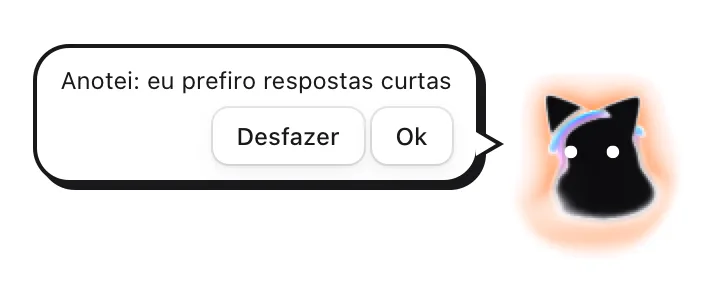
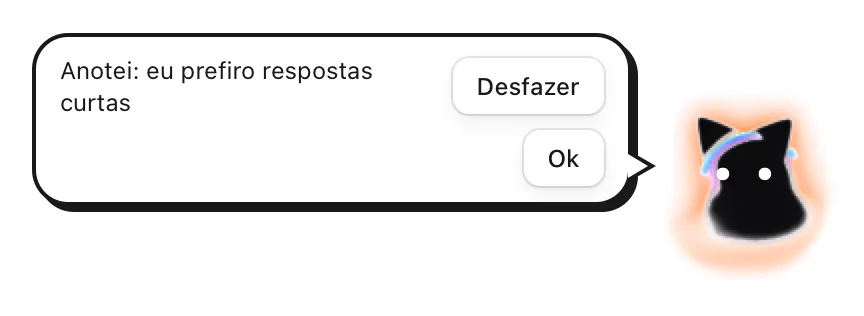
T11665 rodada 2: a leitura que falha não apaga a memória, e cada anotação do pedido tem o seu [Desfazer]

diff --git a/app/ui/hub/MemoryBubble.tsx b/app/ui/hub/MemoryBubble.tsx
@@ -1,6 +1,6 @@
-// "Anotei: …" (spec #11469, T11665): quando o agente anota ou esquece um fato na memória, o balão do gato mostra o
-// fato com o [Desfazer]. Aparece depois que o balão da resposta sai e fica uns segundos; o [Desfazer] é o
-// `agent.memoryUndo`. Nunca tira o foco.
+// "Anotei: …" (spec #11469, T11665): quando o agente anota ou esquece fatos na memória, o balão do gato mostra cada
+// mudança do pedido, cada uma com o seu [Desfazer] (`agent.memoryUndo`). Aparece depois que o balão da resposta sai e
+// fica uns segundos. Nunca tira o foco.
 
 import { useEffect, useRef, useState } from "react";
 
@@ -8,33 +8,40 @@ import type { AgentMemoryView } from "../../src/shared/ui-contract.ts";
 import { api, has } from "../src/api.ts";
 import { Button } from "../src/kit/index.tsx";
 
-/** Quanto o balão fica na tela depois de aparecer. */
+/** Quanto o balão fica na tela depois da última mudança. */
 export const MEMORY_BUBBLE_MS = 12_000;
 
-type Last = NonNullable<AgentMemoryView["last"]>;
+type Change = AgentMemoryView["changes"][number];
 
 /** A frase do balão para uma mudança na memória. */
-export function memoryBubbleLine(last: Last): string {
-  if (last.undone) return last.action === "remember" ? `Desfeito: não anotei "${last.fact}".` : `Desfeito: "${last.fact}" voltou para a memória.`;
-  return last.action === "remember" ? `Anotei: ${last.fact}` : `Esqueci: ${last.fact}`;
+export function memoryBubbleLine(c: Change): string {
+  if (c.undone) return c.action === "remember" ? `Desfeito: não anotei "${c.fact}".` : `Desfeito: "${c.fact}" voltou para a memória.`;
+  return c.action === "remember" ? `Anotei: ${c.fact}` : `Esqueci: ${c.fact}`;
 }
 
 export function MemoryBubble({ hidden, onShown }: { hidden: boolean; onShown?: (shown: boolean) => void }) {
-  const [last, setLast] = useState<Last | null>(null);
+  const [changes, setChanges] = useState<Change[]>([]);
   const [failure, setFailure] = useState<string | null>(null);
   const timer = useRef<ReturnType<typeof setTimeout> | undefined>(undefined);
 
   useEffect(() => {
     if (!has("agent.memory")) return;
-    let seen: string | null = null;
+    const seen = new Set<string>();
+    let open = false;
     const off = api.agent.onMemory((v) => {
-      // Só uma mudança nova (ou o desfeito da mostrada) abre o balão; a tela de Ajustes mudando a lista não.
-      if (!v.last || (v.last.id === seen && !v.last.undone)) return;
-      seen = v.last.id;
+      // Uma mudança nova abre o balão (e o reabre); um [Desfazer] atualiza o que está aberto. A tela de Ajustes mudando
+      // a lista, sem mudança do agente, não abre nada.
+      const fresh = v.changes.some((c) => !seen.has(c.id));
+      for (const c of v.changes) seen.add(c.id);
+      if (!fresh && !open) return;
+      open = true;
       setFailure(null);
-      setLast(v.last);
+      setChanges(v.changes);
       clearTimeout(timer.current);
-      timer.current = setTimeout(() => setLast(null), MEMORY_BUBBLE_MS);
+      timer.current = setTimeout(() => {
+        open = false;
+        setChanges([]);
+      }, MEMORY_BUBBLE_MS);
     });
     return () => {
       off();
@@ -42,27 +49,25 @@ export function MemoryBubble({ hidden, onShown }: { hidden: boolean; onShown?: (
     };
   }, []);
 
-  const shown = !!last && !hidden;
-  useEffect(() => onShown?.(!!last), [!!last]);
-  if (!shown) return null;
+  useEffect(() => onShown?.(changes.length > 0), [changes.length > 0]);
+  if (!changes.length || hidden) return null;
   const keepFocus = (e: React.MouseEvent) => {
     if ((e.target as HTMLElement).closest("button")) e.preventDefault();
   };
+  const undo = (id: string) => void api.agent.memoryUndo(id).catch((e: unknown) => setFailure(e instanceof Error ? e.message : String(e)));
   return (
     <div className="kn-bubble-shell kn-bubble kn-memory-bubble" onMouseDown={keepFocus} role="status" aria-label="A memória do agente">
-      <p className="kn-memory-line">{memoryBubbleLine(last!)}</p>
+      <ul className="kn-memory-list">
+        {changes.map((c) => (
+          <li key={c.id} className="kn-memory-item">
+            <span className="kn-memory-line">{memoryBubbleLine(c)}</span>
+            {!c.undone ? <Button onClick={() => undo(c.id)}>Desfazer</Button> : null}
+          </li>
+        ))}
+      </ul>
       {failure ? <p className="kn-memory-note">{failure}</p> : null}
       <div className="kn-memory-actions">
-        {!last!.undone ? (
-          <Button
-            onClick={() =>
-              void api.agent.memoryUndo(last!.id).catch((e: unknown) => setFailure(e instanceof Error ? e.message : String(e)))
-            }
-          >
-            Desfazer
-          </Button>
-        ) : null}
-        <Button onClick={() => setLast(null)}>Ok</Button>
+        <Button onClick={() => setChanges([])}>Ok</Button>
       </div>
     </div>
   );

diff --git a/app/src/agent/service.test.ts b/app/src/agent/service.test.ts
@@ -1441,7 +1441,7 @@ describe("a memória do agente (spec #11469)", () => {
     const turn = await askAndWait(m, "lembra que eu prefiro respostas curtas");
     expect(turn.at(-1)).toMatchObject({ type: "done", text: "Anotei: eu prefiro respostas curtas." });
     expect(readFileSync(path.join(root, ".kiwi/agente/sobre-mim.md"), "utf8")).toContain("- eu prefiro respostas curtas\n");
-    expect(seen.at(-1)).toMatchObject({ facts: ["eu prefiro respostas curtas"], max: 60, last: { action: "remember", fact: "eu prefiro respostas curtas" } });
+    expect(seen.at(-1)).toMatchObject({ facts: ["eu prefiro respostas curtas"], max: 60, changes: [{ action: "remember", fact: "eu prefiro respostas curtas" }] });
     const [r] = await m.svc.activityLog();
     expect(r!.reads).toContainEqual(expect.objectContaining({ tool: "memory_remember", target: "eu prefiro respostas curtas" }));
     // O pedido seguinte leva a memória no começo fixo, e dois pedidos seguidos levam os mesmos bytes.
@@ -1453,8 +1453,8 @@ describe("a memória do agente (spec #11469)", () => {
     expect(head(prompts.at(-1)!)).toBe(head(prompts.at(-2)!));
     expect(prompts.at(-2)).toContain("- eu prefiro respostas curtas\n]");
     // O [Desfazer] do balão tira o fato, e o balão sabe que foi desfeito.
-    const undone = await m.svc.memoryUndo(seen.at(-1)!.last!.id);
-    expect(undone).toMatchObject({ facts: [], last: { undone: true } });
+    const undone = await m.svc.memoryUndo(seen.at(-1)!.changes[0]!.id);
+    expect(undone).toMatchObject({ facts: [], changes: [{ undone: true }] });
     expect(await m.svc.memoryView()).toMatchObject({ facts: [] });
     await expect(m.svc.memoryUndo("nao-existe")).rejects.toMatchObject({ code: "E_NOT_FOUND" });
     // "esquece que…" com o fato de volta, e o [Desfazer] traz o fato no mesmo lugar.
@@ -1462,8 +1462,19 @@ describe("a memória do agente (spec #11469)", () => {
     await askAndWait(m, "lembra que uso o Mac");
     await askAndWait(m, "esquece que trabalho com PACS");
     expect((await m.svc.memoryView()).facts).toEqual(["uso o Mac"]);
-    await m.svc.memoryUndo((await m.svc.memoryView()).last!.id);
+    await m.svc.memoryUndo((await m.svc.memoryView()).changes.at(-1)!.id);
     expect((await m.svc.memoryView()).facts).toEqual(["trabalho com PACS", "uso o Mac"]);
+    // Duas anotações no mesmo pedido: as duas vão para o balão, cada uma com o seu [Desfazer] (revisão do T11665).
+    await askAndWait(m, '/tool memory_remember {"fato":"mora em BH"}\n/tool memory_remember {"fato":"tem um gato"}');
+    const both = await m.svc.memoryView();
+    expect(both.changes.map((c) => c.fact)).toEqual(["mora em BH", "tem um gato"]);
+    await m.svc.memoryUndo(both.changes[0]!.id);
+    expect((await m.svc.memoryView()).facts).toEqual(["trabalho com PACS", "uso o Mac", "tem um gato"]);
+    expect((await m.svc.memoryView()).changes).toMatchObject([{ fact: "mora em BH", undone: true }, { fact: "tem um gato" }]);
+    // Um fato que já estava lá não muda nada: a Atividade não diz "Anotou".
+    await askAndWait(m, "lembra que tem um gato");
+    const [r2] = await m.svc.activityLog();
+    expect(r2!.reads.find((x) => x.tool === "memory_remember")?.target).toBeUndefined();
   });
 
   test("as instruções e o glossário (T11667): no começo fixo, na ordem, os mesmos bytes em dois pedidos seguidos; no modo econômico, só os termos do pedido", async () => {

diff --git a/app/src/agent/memory.test.ts b/app/src/agent/memory.test.ts
@@ -2,7 +2,7 @@
 // ferramentas com o guardrail (o segredo é recusado; a dúvida passa pela pergunta antes de ser guardada).
 
 import { afterAll, describe, expect, test } from "bun:test";
-import { readFileSync, rmSync, writeFileSync, mkdirSync } from "node:fs";
+import { chmodSync, readFileSync, rmSync, writeFileSync, mkdirSync } from "node:fs";
 import path from "node:path";
 
 import { DoubtAnswers } from "../guardrail/answers.ts";
@@ -41,6 +41,25 @@ describe("o arquivo da memória", () => {
     writeFileSync(path.join(root, MEMORY_FILE), `${file}* mora em Belo Horizonte\nlinha solta\n- Trabalha com PACS\n`);
     expect(readMemory(root)).toEqual(["Prefere respostas curtas", "trabalha com PACS", "mora em Belo Horizonte"]);
     expect(parseMemory(formatMemory(readMemory(root)))).toEqual(readMemory(root));
+  });
+
+  test("um arquivo que não dá para ler não vira memória vazia: o erro sobe e nada é gravado por cima (revisão do T11665)", () => {
+    const root = tmp();
+    writeMemory(root, ["fato 1", "fato 2", "fato 3"]);
+    const file = path.join(root, MEMORY_FILE);
+    const before = readFileSync(file, "utf8");
+    chmodSync(file, 0o000);
+    try {
+      expect(() => readMemory(root)).toThrow(/não conseguiu ler a memória/);
+      expect(() => writeMemory(root, rememberFact(readMemory(root), "fato novo").facts)).toThrow();
+    } finally {
+      chmodSync(file, 0o600);
+    }
+    expect(readFileSync(file, "utf8")).toBe(before);
+    // Uma pasta no lugar do arquivo também é erro, não memória vazia.
+    const other = tmp();
+    mkdirSync(path.join(other, MEMORY_FILE), { recursive: true });
+    expect(() => readMemory(other)).toThrow(/não conseguiu ler a memória/);
   });
 
   test("anotar e esquecer: o repetido não entra, o cheio recusa, e esquecer acha sem maiúscula nem acento", () => {

diff --git a/app/src/agent/memory.ts b/app/src/agent/memory.ts
@@ -7,7 +7,7 @@
 // - **No máximo 60 fatos** (`MEMORY_MAX`): passando disso, o agente tem de esquecer um antes de anotar outro.
 // - **Os mesmos bytes para a mesma memória,** no arquivo e no começo fixo do pedido (o cache do agente, #11084).
 
-import { existsSync, mkdirSync, readFileSync, renameSync, writeFileSync } from "node:fs";
+import { mkdirSync, readFileSync, renameSync, writeFileSync } from "node:fs";
 import path from "node:path";
 
 export const MEMORY_FILE = path.join(".kiwi", "agente", "sobre-mim.md");
@@ -53,13 +53,18 @@ export function formatMemory(facts: readonly string[]): string {
   return [...HEADER, ...facts.map((f) => `- ${cleanFact(f)}`), ""].join("\n");
 }
 
+/**
+ * Os fatos do cofre. Sem o arquivo, nenhum. **Qualquer outro erro sobe** (`E_MEMORY_UNREADABLE`: sem permissão, uma
+ * pasta no lugar, um arquivo do iCloud que não baixou): quem ia gravar não grava por cima de fatos que não leu
+ * (revisão do T11665).
+ */
 export function readMemory(vaultRoot: string): string[] {
   const file = path.join(vaultRoot, MEMORY_FILE);
-  if (!existsSync(file)) return [];
   try {
     return parseMemory(readFileSync(file, "utf8"));
-  } catch {
-    return [];
+  } catch (e) {
+    if ((e as { code?: string })?.code === "ENOENT") return [];
+    throw new MemoryError("E_MEMORY_UNREADABLE", `o Kiwi não conseguiu ler a memória (${MEMORY_FILE}): nada foi mudado nela`);
   }
 }
 
@@ -76,7 +81,7 @@ export function writeMemory(vaultRoot: string, facts: readonly string[]): string
 
 export class MemoryError extends Error {
   constructor(
-    readonly code: "E_MEMORY_FULL" | "E_NOT_FOUND" | "E_BAD_ARGS",
+    readonly code: "E_MEMORY_FULL" | "E_NOT_FOUND" | "E_BAD_ARGS" | "E_MEMORY_UNREADABLE",
     message: string,
   ) {
     super(message);

diff --git a/app/src/agent/service.ts b/app/src/agent/service.ts
@@ -62,6 +62,8 @@ import { factKey, forgetFact, glossaryText, INSTRUCTIONS_MAX, instructionsText, 
 const MEMORY_OPS_KEEP = 50;
 interface MemoryOp {
   id: string;
+  /** O pedido do agente em que a mudança aconteceu: o balão mostra todas as do mesmo pedido. */
+  request: string;
   action: "remember" | "forget";
   fact: string;
   /** Onde o fato estava (para o esquecido voltar no mesmo lugar). */
@@ -322,7 +324,7 @@ export class AgentService {
   }
 
   private memoryOp(action: MemoryOp["action"], fact: string, index: number): MemoryOp {
-    const op: MemoryOp = { id: crypto.randomUUID(), action, fact, index, at: (this.d.now ?? Date.now)() };
+    const op: MemoryOp = { id: crypto.randomUUID(), request: this.activityId(), action, fact, index, at: (this.d.now ?? Date.now)() };
     this.memoryOps = [...this.memoryOps, op].slice(-MEMORY_OPS_KEEP);
     return op;
   }
@@ -347,12 +349,12 @@ export class AgentService {
   };
 
   private viewOf(facts: string[]): AgentMemoryView {
-    const last = this.memoryOps.at(-1);
-    return {
-      facts,
-      max: MEMORY_MAX,
-      last: last ? { id: last.id, action: last.action, fact: last.fact, at: new Date(last.at).toISOString(), ...(last.undone ? { undone: true } : {}) } : null,
-    };
+    // As mudanças do último pedido que mexeu na memória, na ordem: cada uma com o seu [Desfazer] no balão.
+    const request = this.memoryOps.at(-1)?.request;
+    const changes = this.memoryOps
+      .filter((o) => o.request === request)
+      .map((o) => ({ id: o.id, action: o.action, fact: o.fact, at: new Date(o.at).toISOString(), ...(o.undone ? { undone: true } : {}) }));
+    return { facts, max: MEMORY_MAX, changes };
   }
 
   private emitMemory(facts: string[], _op?: MemoryOp): void {

diff --git a/app/src/shared/ui-contract.ts b/app/src/shared/ui-contract.ts
@@ -170,7 +170,7 @@ export type { NoteModel };
 // 1.59.0 (T11559, spec #11546): o resumo executivo. O `summary` no `AgentStatus` e no `agent.configure` (os 6 blocos e o
 //   período do primeiro resumo) e o `kind: "summary"` nas propostas. Só acréscimo.
 // 1.60.0 (T11665, spec #11469): a memória do agente. O `agent.memory` (os fatos e a última mudança), o
-//   `agent.memoryUndo` (o [Desfazer] do balão) e o evento `agent.memoryChanged`; as `instructions` no `AgentStatus` e
+//   `agent.memoryUndo` (o [Desfazer] de cada mudança no balão) e o evento `agent.memoryChanged`; as `instructions` no `AgentStatus` e
 //   no `agent.configure`. Só acréscimo.
 export const UI_CONTRACT_VERSION = "1.60.0";
 /** O que as UIs deste build pedem no `requiresContract` do ui.json. */
@@ -586,8 +586,11 @@ export interface AgentMemoryView {
   facts: string[];
   /** O máximo de fatos (60). */
   max: number;
-  /** A última mudança que o agente fez (o balão "Anotei: …" com o [Desfazer]); null sem nenhuma desde que o app abriu. */
-  last: { id: string; action: "remember" | "forget"; fact: string; at: string; undone?: boolean } | null;
+  /**
+   * As mudanças que o agente fez no último pedido que mexeu na memória, na ordem (o balão "Anotei: …", cada uma com o
+   * seu [Desfazer]); vazio sem nenhuma desde que o app abriu.
+   */
+  changes: { id: string; action: "remember" | "forget"; fact: string; at: string; undone?: boolean }[];
 }
 
 /** Uma proposta da reunião (1.57.0, spec #8360). As horas em ISO. */

diff --git a/app/src/agent/tools/tools.ts b/app/src/agent/tools/tools.ts
@@ -1290,9 +1290,10 @@ async function memoryTool(sink: MemorySink, name: string, raw: unknown, guard: S
     if (/‹segredo [^›\n]{0,40}›/.test(fact)) throw secret();
     if (guard && (await guard.decide("", fact, decider)).held > 0) throw secret();
     const r = await sink.remember(fact);
+    // Sem `target` quando o fato já estava lá: nada mudou, e a Atividade não diz "Anotou" (revisão do T11665).
     return {
       value: { anotado: fact, novo: r.added, total: r.total, ...(r.added ? {} : { aviso: "Esse fato já estava na memória." }) },
-      target: fact,
+      ...(r.added ? { target: fact } : {}),
     };
   } catch (e) {
     if (e instanceof MemoryError) throw new ToolError(e.code, e.message);

diff --git a/app/ui/hub/hub.css b/app/ui/hub/hub.css
@@ -398,6 +398,8 @@
 
 /* "Anotei: …" (spec #11469): o balão da memória, no mesmo canto, com o [Desfazer]. */
 .kn-bubble-shell.kn-memory-bubble { display: grid; gap: 6px; max-width: 300px; user-select: text; }
-.kn-memory-line { margin: 0; }
+.kn-memory-list { list-style: none; margin: 0; padding: 0; display: grid; gap: 6px; }
+.kn-memory-item { display: flex; align-items: center; justify-content: space-between; gap: 8px; }
+.kn-memory-line { min-width: 0; overflow-wrap: anywhere; }
 .kn-memory-note { margin: 0; font-size: var(--text-xs, 0.85em); color: var(--text-2); }
 .kn-memory-actions { display: flex; gap: 4px; justify-content: flex-end; }
